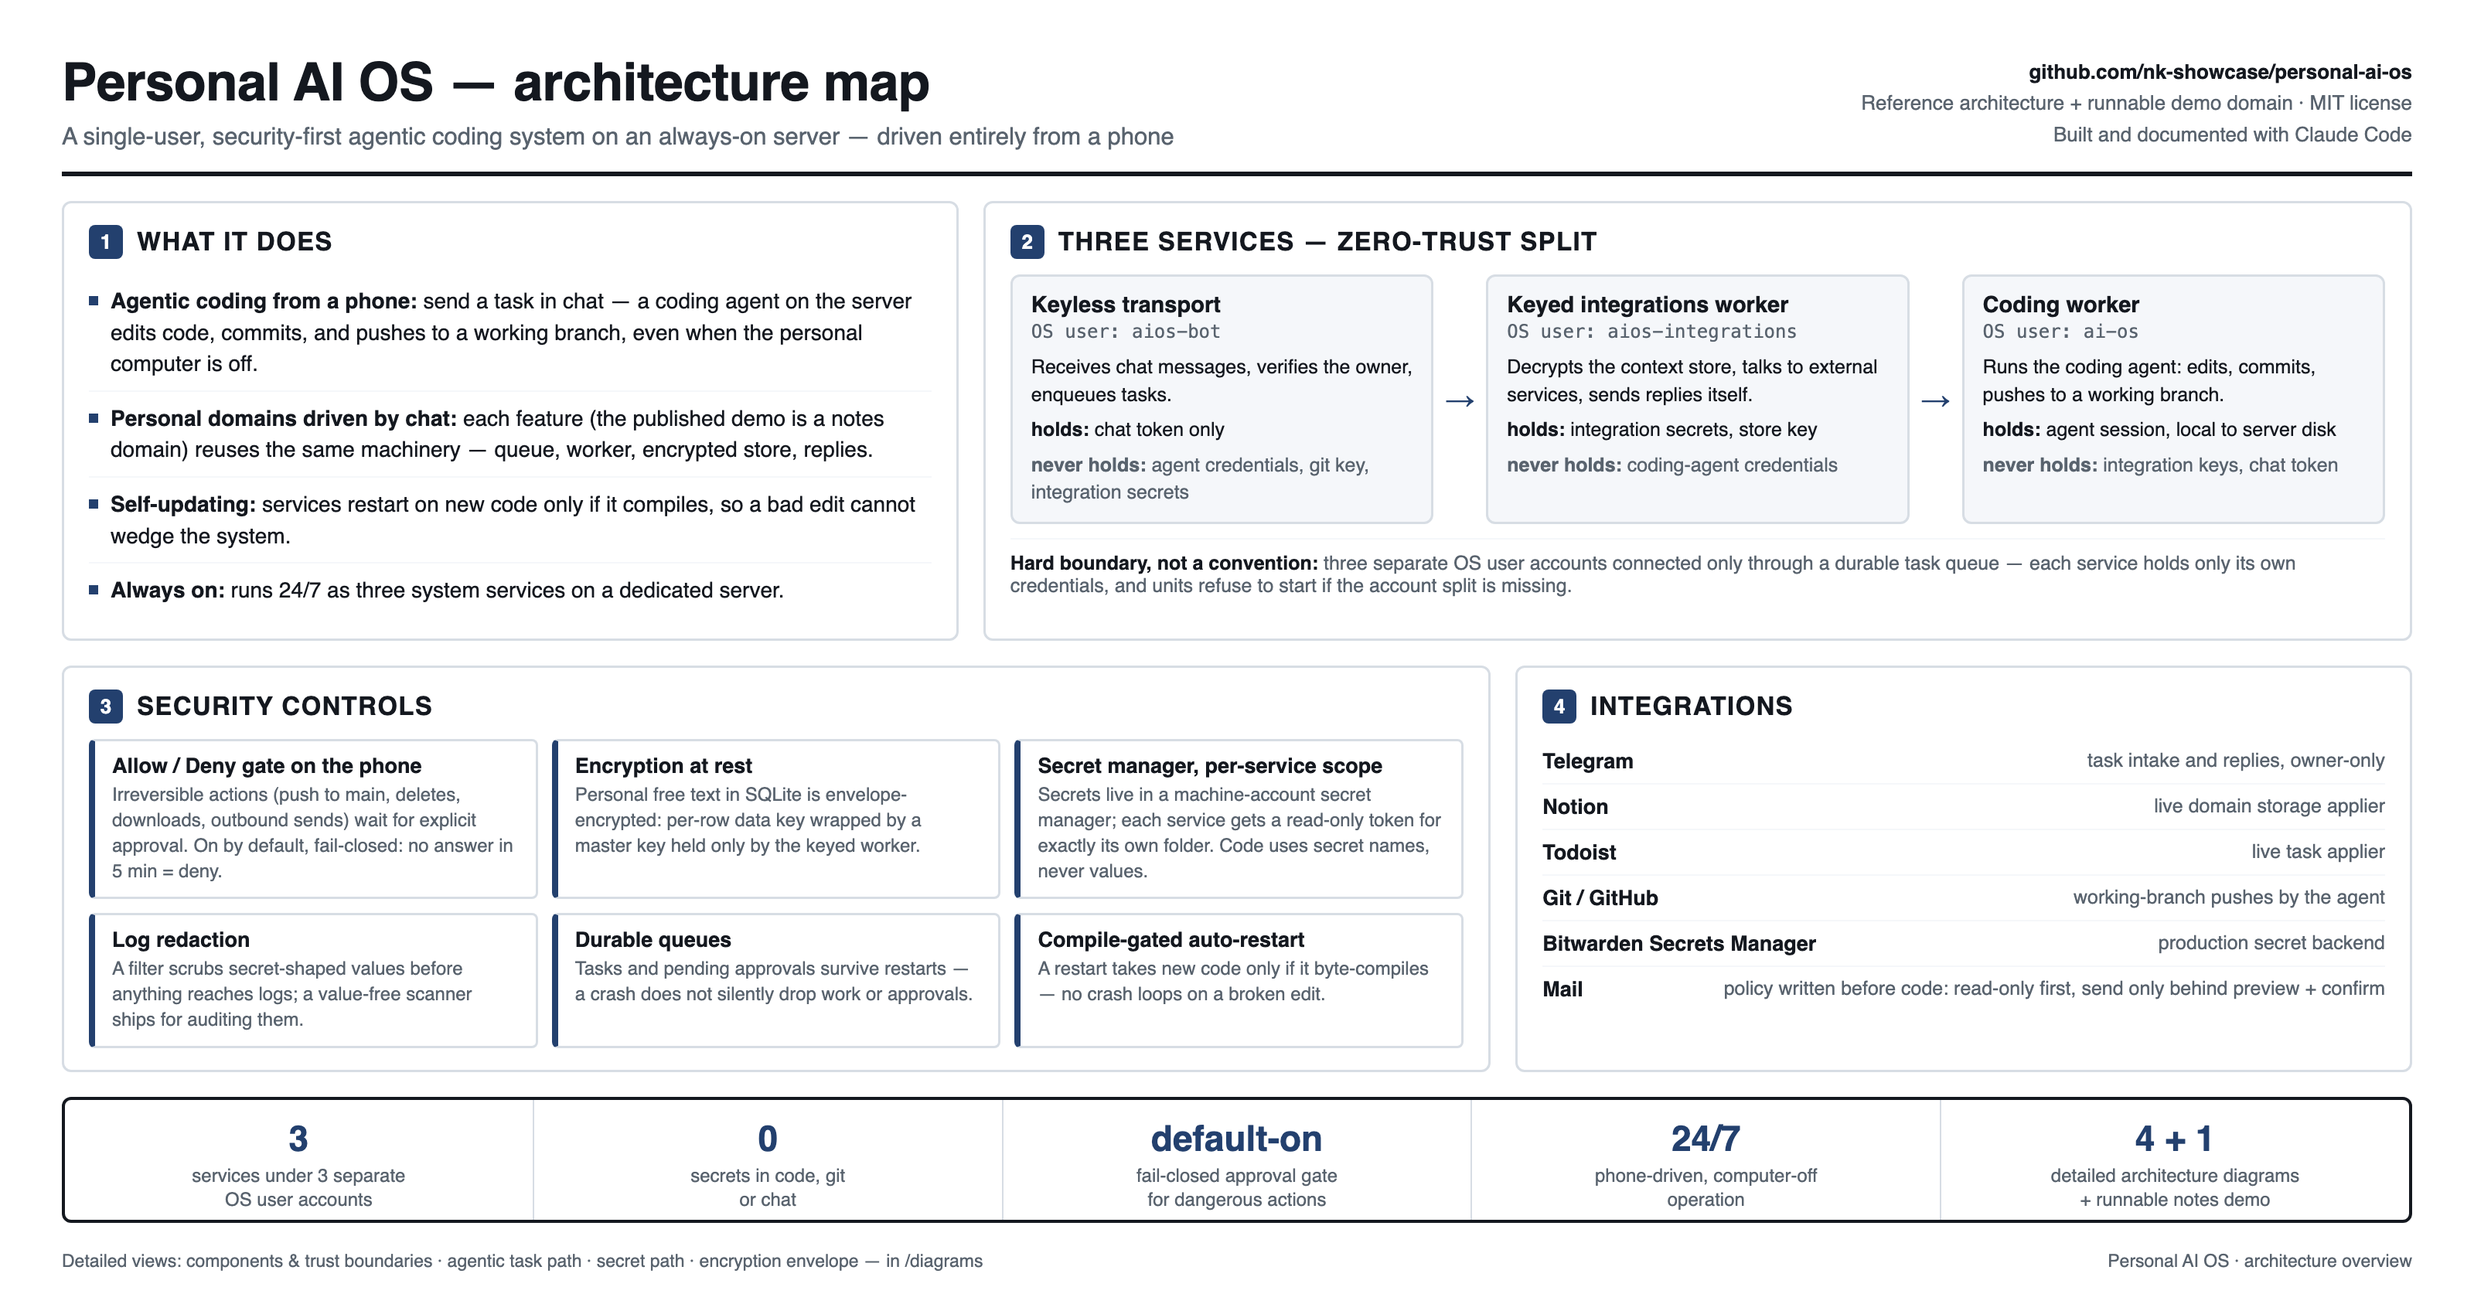
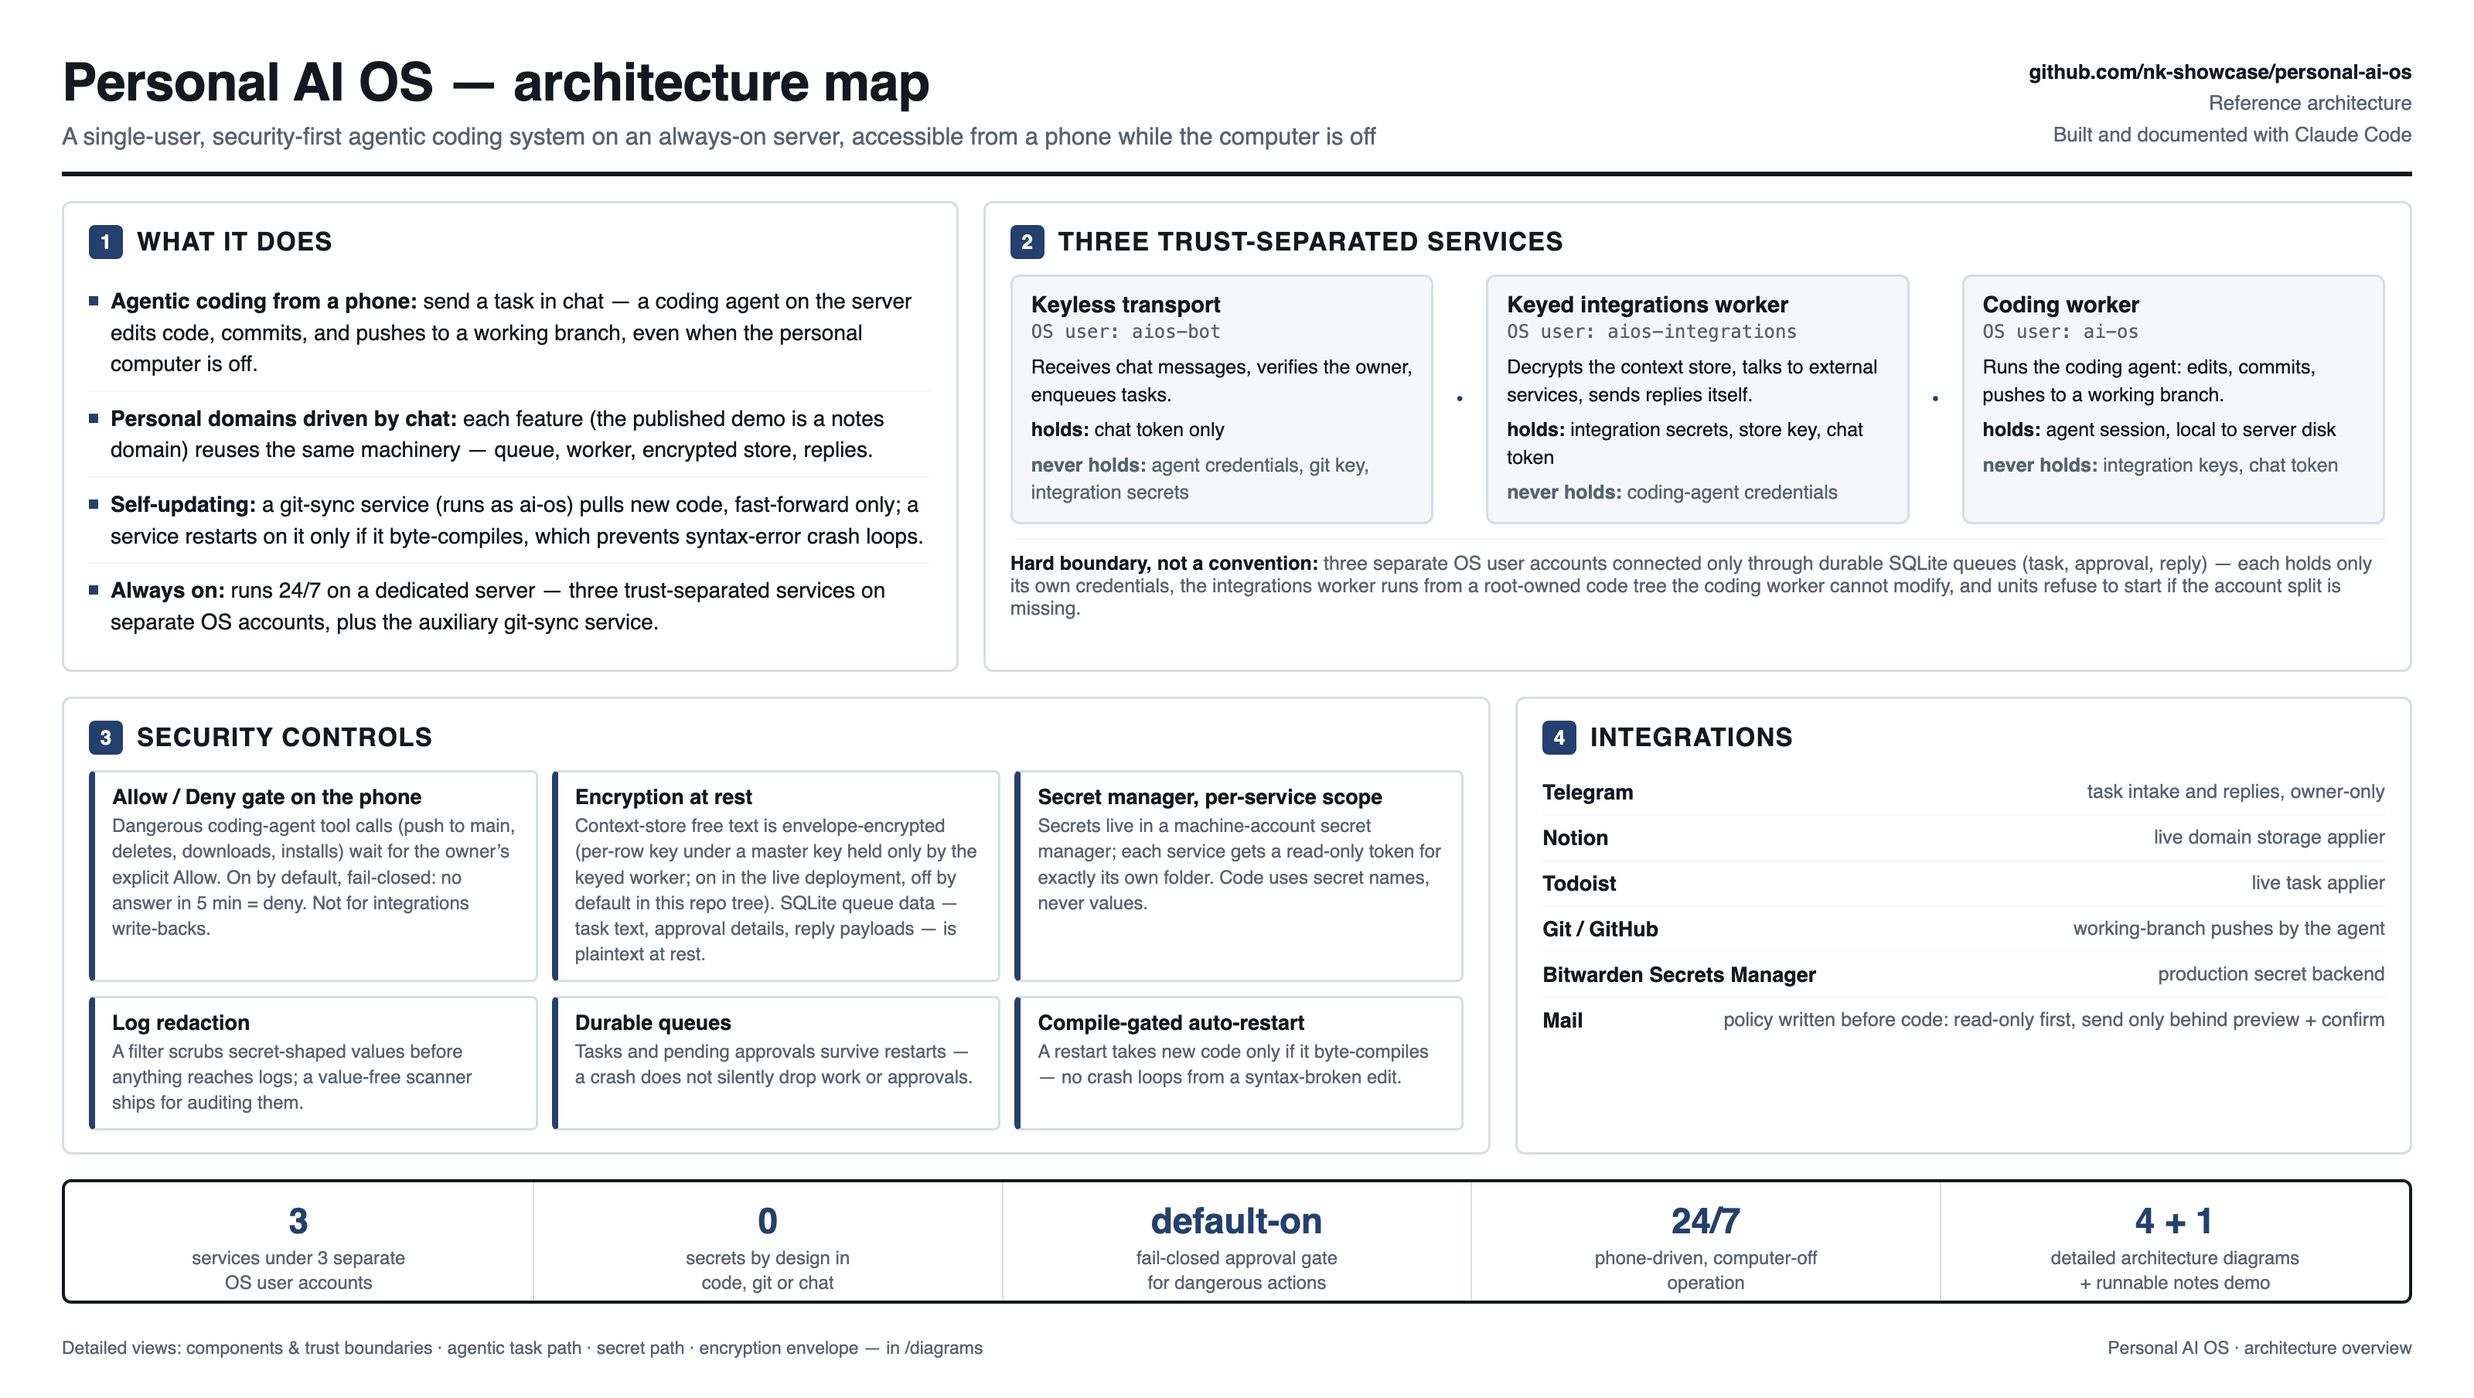
Harden integrations isolation
- Run the keyed integrations worker from a root-owned code and virtual
  environment tree that the coding worker cannot modify.
- Add scripts to provision the isolated tree and render systemd templates
  with validated, distinct service-account paths.
- Configure shared cross-user queues and activate per-service secret
  allow-lists across the deployed services.
- Document the trust boundaries, deployment controls, and security limits
  in the README and architecture diagram.

Changed region(s): [[0.0312, 0.0312, 0.9688, 0.9688]]

diff --git a/diagrams/architecture-overview.html b/diagrams/architecture-overview.html
@@ -11,7 +11,7 @@
   *{box-sizing:border-box;margin:0;padding:0;}
   html,body{background:#fff;}
   body{
-    width:1600px;height:848px;overflow:hidden;
+    width:1600px;height:904px;overflow:hidden;
     font-family:Helvetica,Arial,sans-serif;color:var(--ink);
     padding:34px 40px 26px;display:flex;flex-direction:column;gap:16px;
   }
@@ -68,7 +68,7 @@
   .fact:last-child{border-right:none;}
   .fact .v{font-size:23px;font-weight:700;color:var(--accent);}
   .fact .k{font-size:12px;color:var(--muted);margin-top:3px;line-height:1.3;}
-  .foot{display:flex;justify-content:space-between;font-size:11.5px;color:var(--muted);padding-top:2px;}
+  .foot{display:flex;justify-content:space-between;font-size:11.5px;color:var(--muted);padding-top:6px;}
 </style>
 </head>
 <body>
@@ -76,11 +76,11 @@
 <div class="hdr">
   <div>
     <h1>Personal AI OS &mdash; architecture map</h1>
-    <div class="sub">A single-user, security-first agentic coding system on an always-on server &mdash; driven entirely from a phone</div>
+    <div class="sub">A single-user, security-first agentic coding system on an always-on server, accessible from a phone while the computer is off</div>
   </div>
   <div class="hdr-right">
     <b>github.com/nk-showcase/personal-ai-os</b><br>
-    Reference architecture + runnable demo domain &middot; MIT license<br>
+    Reference architecture<br>
     Built and documented with Claude Code
   </div>
 </div>
@@ -91,13 +91,13 @@
     <ul>
       <li><b>Agentic coding from a phone:</b> send a task in chat &mdash; a coding agent on the server edits code, commits, and pushes to a working branch, even when the personal computer is off.</li>
       <li><b>Personal domains driven by chat:</b> each feature (the published demo is a notes domain) reuses the same machinery &mdash; queue, worker, encrypted store, replies.</li>
-      <li><b>Self-updating:</b> services restart on new code only if it compiles, so a bad edit cannot wedge the system.</li>
-      <li><b>Always on:</b> runs 24/7 as three system services on a dedicated server.</li>
+      <li><b>Self-updating:</b> a git-sync service (runs as ai-os) pulls new code, fast-forward only; a service restarts on it only if it byte-compiles, which prevents syntax-error crash loops.</li>
+      <li><b>Always on:</b> runs 24/7 on a dedicated server &mdash; three trust-separated services on separate OS accounts, plus the auxiliary git-sync service.</li>
     </ul>
   </div>
 
   <div class="block svc">
-    <div class="bt"><span class="num">2</span><h2>Three services &mdash; zero-trust split</h2></div>
+    <div class="bt"><span class="num">2</span><h2>Three trust-separated services</h2></div>
     <div class="svc-row">
       <div class="svc-card">
         <h3>Keyless transport</h3>
@@ -106,15 +106,15 @@
         <p class="holds">chat token only</p>
         <p class="never">agent credentials, git key, integration secrets</p>
       </div>
-      <div class="arrow">&#8594;</div>
+      <div class="arrow">&middot;</div>
       <div class="svc-card">
         <h3>Keyed integrations worker</h3>
         <div class="usr">OS user: aios-integrations</div>
         <p>Decrypts the context store, talks to external services, sends replies itself.</p>
-        <p class="holds">integration secrets, store key</p>
+        <p class="holds">integration secrets, store key, chat token</p>
         <p class="never">coding-agent credentials</p>
       </div>
-      <div class="arrow">&#8594;</div>
+      <div class="arrow">&middot;</div>
       <div class="svc-card">
         <h3>Coding worker</h3>
         <div class="usr">OS user: ai-os</div>
@@ -123,7 +123,7 @@
         <p class="never">integration keys, chat token</p>
       </div>
     </div>
-    <div class="svc-note"><b>Hard boundary, not a convention:</b> three separate OS user accounts connected only through a durable task queue &mdash; each service holds only its own credentials, and units refuse to start if the account split is missing.</div>
+    <div class="svc-note"><b>Hard boundary, not a convention:</b> three separate OS user accounts connected only through durable SQLite queues (task, approval, reply) &mdash; each holds only its own credentials, the integrations worker runs from a root-owned code tree the coding worker cannot modify, and units refuse to start if the account split is missing.</div>
   </div>
 </div>
 
@@ -131,12 +131,12 @@
   <div class="block sec">
     <div class="bt"><span class="num">3</span><h2>Security controls</h2></div>
     <div class="sec-grid">
-      <div class="sec-item"><h4>Allow / Deny gate on the phone</h4><p>Irreversible actions (push to main, deletes, downloads, outbound sends) wait for explicit approval. On by default, fail-closed: no answer in 5 min = deny.</p></div>
-      <div class="sec-item"><h4>Encryption at rest</h4><p>Personal free text in SQLite is envelope-encrypted: per-row data key wrapped by a master key held only by the keyed worker.</p></div>
+      <div class="sec-item"><h4>Allow / Deny gate on the phone</h4><p>Dangerous coding-agent tool calls (push to main, deletes, downloads, installs) wait for the owner&rsquo;s explicit Allow. On by default, fail-closed: no answer in 5 min = deny. Not for integrations write-backs.</p></div>
+      <div class="sec-item"><h4>Encryption at rest</h4><p>Context-store free text is envelope-encrypted (per-row key under a master key held only by the keyed worker; on in the live deployment, off by default in this repo tree). SQLite queue data &mdash; task text, approval details, reply payloads &mdash; is plaintext at rest.</p></div>
       <div class="sec-item"><h4>Secret manager, per-service scope</h4><p>Secrets live in a machine-account secret manager; each service gets a read-only token for exactly its own folder. Code uses secret names, never values.</p></div>
       <div class="sec-item"><h4>Log redaction</h4><p>A filter scrubs secret-shaped values before anything reaches logs; a value-free scanner ships for auditing them.</p></div>
       <div class="sec-item"><h4>Durable queues</h4><p>Tasks and pending approvals survive restarts &mdash; a crash does not silently drop work or approvals.</p></div>
-      <div class="sec-item"><h4>Compile-gated auto-restart</h4><p>A restart takes new code only if it byte-compiles &mdash; no crash loops on a broken edit.</p></div>
+      <div class="sec-item"><h4>Compile-gated auto-restart</h4><p>A restart takes new code only if it byte-compiles &mdash; no crash loops from a syntax-broken edit.</p></div>
     </div>
   </div>
 
@@ -155,7 +155,7 @@
 
 <div class="facts">
   <div class="fact"><div class="v">3</div><div class="k">services under 3 separate<br>OS user accounts</div></div>
-  <div class="fact"><div class="v">0</div><div class="k">secrets in code, git<br>or chat</div></div>
+  <div class="fact"><div class="v">0</div><div class="k">secrets by design in<br>code, git or chat</div></div>
   <div class="fact"><div class="v">default-on</div><div class="k">fail-closed approval gate<br>for dangerous actions</div></div>
   <div class="fact"><div class="v">24/7</div><div class="k">phone-driven, computer-off<br>operation</div></div>
   <div class="fact"><div class="v">4 + 1</div><div class="k">detailed architecture diagrams<br>+ runnable notes demo</div></div>

diff --git a/README.md b/README.md
@@ -24,6 +24,7 @@ The system is a mix of code you can run and documented design that a real deploy
 | Integrations worker (decrypt + send replies, external services) | shipped-as-code | `bot/integrations_worker.py`: `run_loop()` is inert on its own, but the shipped entry point `main()` (and the systemd unit) wires in a **live** Notion/Todoist applier that makes real network calls |
 | Envelope-encrypted SQLite context store | shipped-as-code, **flag-gated** | at-rest encryption is gated by `AIOS_CONTEXT_ENCRYPTION` (code default `0` so the tree imports and the test suite runs without provisioning production keys; **the production deployment runs with it on** — every domain that stores personal free text writes encrypted). The keyed worker's queue applier is fail-closed: with the flag off it refuses store operations rather than serving them keyless — so the notes round-trip (§5) needs encryption enabled (production keys, or the dev test-KEK documented in `.env.example`). See §4 |
 | Allow/Deny approval gate from the phone | shipped-as-code, **enabled by default** | a per-tool `can_use_tool` gate: dangerous actions wait for the operator's Allow/Deny on the phone (5-minute timeout = safe deny), routine coding is not interrupted by design (the classifier errs conservative — a command that merely mentions `rm` can trip a prompt). Fail-closed; kill-switch `AIOS_TOOL_APPROVALS=0`. See §4 |
+| Root-owned integrations code isolation | shipped-as-code (deployment) | `scripts/provision_integrations_isolation.sh` creates + locks a root-owned code/venv tree the coding-worker user cannot write, and `systemd/aios-integrations-worker.service` runs from it — so a compromised coding worker cannot swap the code the keyed worker executes. See §4 |
 | Demo `notes` domain (runnable example) | shipped-as-code | `bot/aios_notes_store.py` - see §5 |
 | Auto-restart with a compile gate | shipped-as-code | `bot/auto_restart.py`, wired into the worker loops; a restart takes new code only if it byte-compiles. The systemd units in `systemd/` are deployment templates |
 | `/bridge` on-server coding agent internals | documented-only | the phone-driven bridge is **described, not one-click-runnable** - it depends on a coding-agent CLI, a provisioned server account, and host wiring that live outside this repo |
@@ -58,7 +59,9 @@ The OS-user boundary is a hard precondition, not a fallback: if the separate int
 - **Log redaction.** Sensitive values are redacted before anything reaches logs.
 - **Durable queues.** Tasks and pending actions survive restarts so a crash does not silently drop work.
 - **Allow/Deny from the phone (enabled by default, fail-closed).** Irreversible or security-sensitive actions - force-push, push to `main`, deleting files/branches/data, destructive reset, rewriting history, download-and-execute from the internet, package installs, outbound data sends, touching secrets/auth/deploy config or the guards themselves - wait for an explicit Allow on the operator's phone, while routine coding (edits, commits, pushes to a working branch, running tests) is not interrupted by design (the classifier errs conservative — a command that merely mentions `rm` can trip a prompt). Mechanism: the coding agent runs with a per-tool `can_use_tool` callback; a pure policy function (`bot/claude_policy.approval_reason`) classifies each tool call, dangerous ones go onto the durable approval queue, and the operator gets a card with Allow/Deny buttons. No answer within 5 minutes = a safe deny; a policy error = deny; an SDK without callback support = a loud task failure, never a silent pass. Kill-switch: `AIOS_TOOL_APPROVALS=0` restores the no-confirm mode. Honest boundary: the classifier is a regex speed bump against accidental self-harm and the obviously dangerous, not a hermetic anti-exfiltration barrier - the first line of defence remains the operator-only task route. See `docs/security/approval-policy.md`.
-- **Auto-restart with a compile gate.** Services restart on failure, but a restart only takes new code that byte-compiles, so a bad edit cannot wedge the system into a crash loop of broken code.
+- **Auto-restart with a compile gate.** Services restart on failure, but a restart only takes new code that byte-compiles, so a syntax-broken edit cannot wedge the system into a crash loop.
+- **Trust-separated code, not just credentials.** The keyed integrations worker runs its code and Python interpreter from a **root-owned tree the coding-worker user cannot write** — `scripts/provision_integrations_isolation.sh` creates and locks that tree, and `systemd/aios-integrations-worker.service` runs from it. So a compromised coding worker cannot swap in code that the keyed worker would execute on its next restart (which would otherwise hand over the integration keys and the store key). This complements the three-separate-OS-accounts split (§3).
+- **Live-deployment hardening (beyond this reference tree).** The production deployment additionally signs each approval verdict — the transport signs an `Allow` with an Ed25519 key the coding worker does not have, and the worker verifies it — so the gated worker cannot forge its own approval by writing the shared queue directly. That signing is deliberately **not** included in this reference tree, to keep the transport tier genuinely keyless here; it is documented as a deployment hardening.
 
 For the full threat model and current boundaries, see `docs/security/`.
 
@@ -98,7 +101,8 @@ Setup is documented rather than fully automated, because a real deployment provi
 
 - Run `scripts/check_setup.sh` to verify local prerequisites.
 - Follow `docs/security/` for the secret manager, service-user split, and approval policy.
-- Follow `docs/vps/` and `systemd/` for the always-on service units.
+- Follow `docs/vps/` and `systemd/` for the always-on service units. The units use `${AIOS_HOME}`-style placeholders (systemd does not expand these itself), so render + install them with `scripts/install_systemd_units.sh` (root), which substitutes the concrete paths and reloads systemd.
+- Run `scripts/provision_integrations_isolation.sh` (root) to create the root-owned code tree the integrations worker runs from (isolated from the coding worker). See §4.
 
 ---
 
